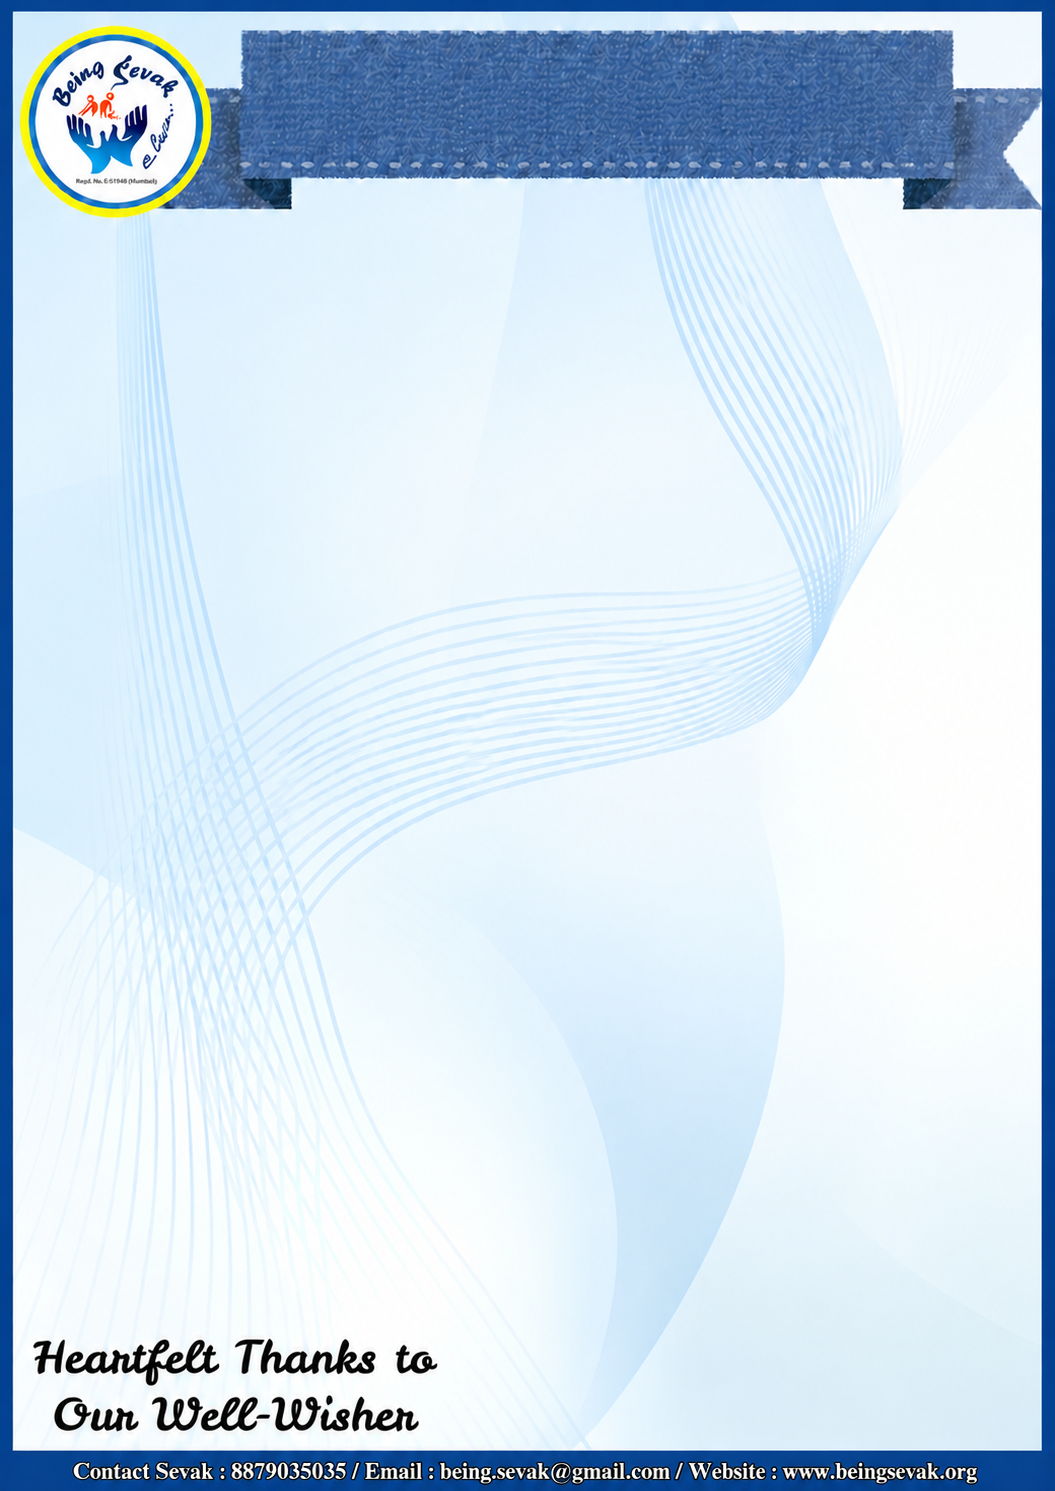
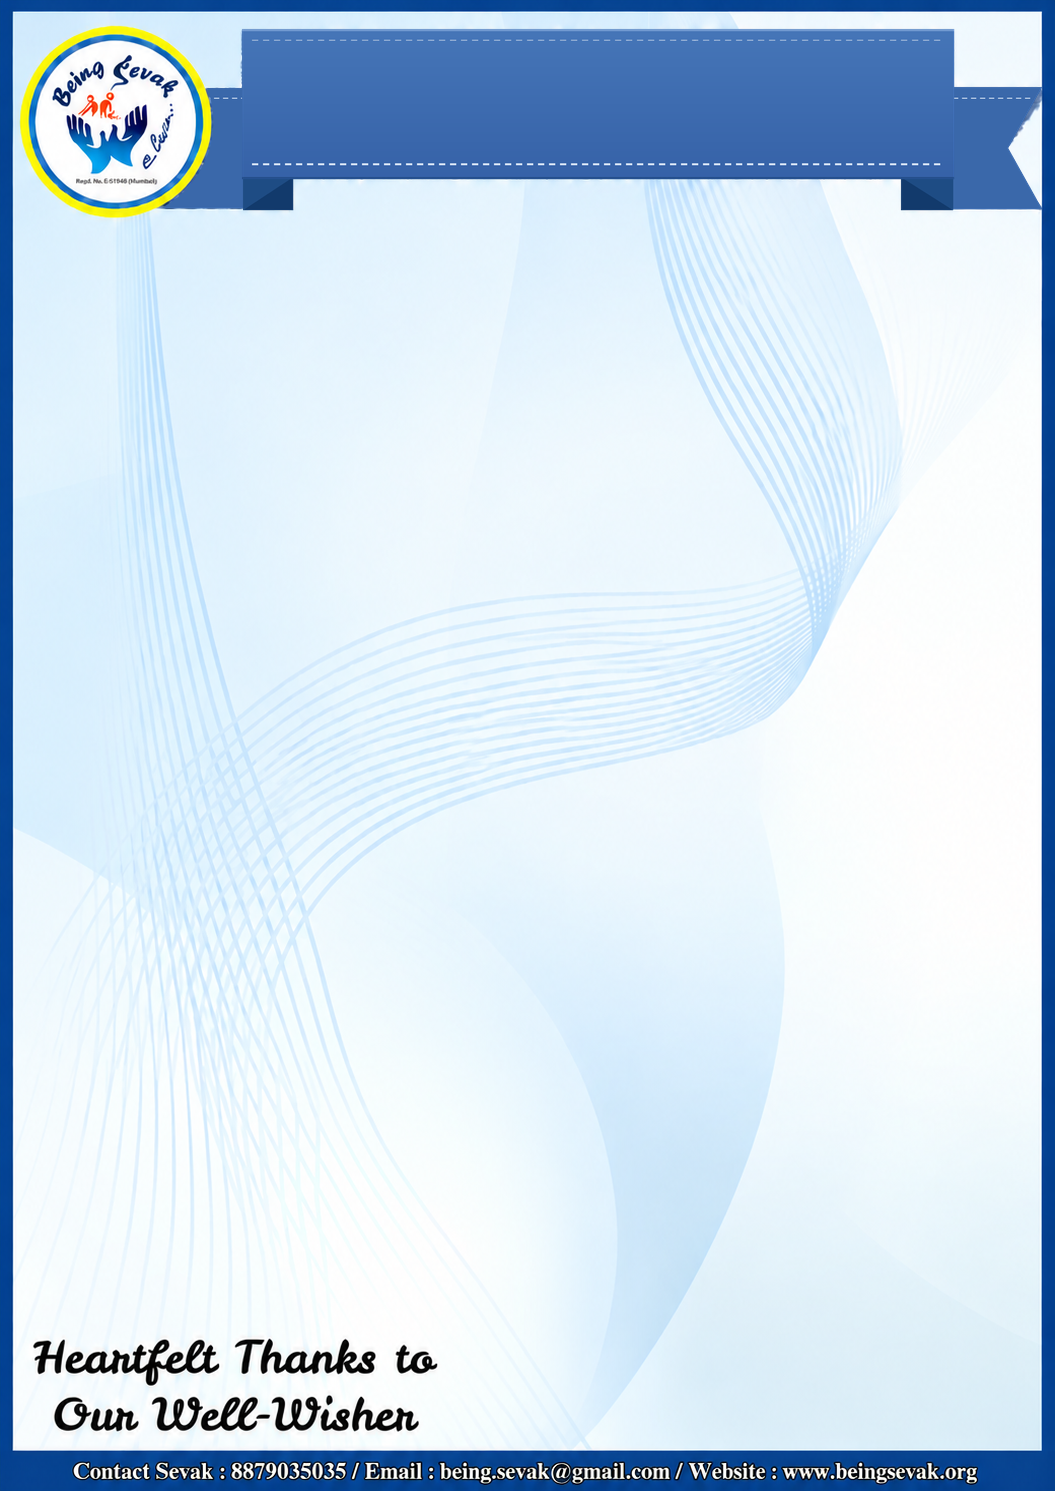
event not show error fix

Changed region(s): [[0.182, 0.0, 1.0, 0.1543]]

diff --git a/backend/src/controllers/eventHeadController.js b/backend/src/controllers/eventHeadController.js
@@ -1723,6 +1723,7 @@ export const generateNgoMonthlyReport = async (req, res) => {
       eventsByNgoDate.get(k).push(e);
     }
     const claimedEventIds = new Set();
+    const includedEventIds = new Set();
     const eventBannerMap = {};
     try {
       const bannerRows = await EventHead.getBannerMediaByEvents(events.map(e => e.id).filter(Boolean));
@@ -1834,10 +1835,22 @@ export const generateNgoMonthlyReport = async (req, res) => {
     // even while its event record is still a Draft waiting for the head's
     // approval — the work is what the report is about.
     const plannerCells = await loadPlannerDoneCells(month, year);
-    const plannerDoneCell = (date, festival) => {
-      const c = plannerCells.get(`${String(date || '').slice(0, 10)}::${String(festival || '').trim()}`);
-      return Boolean(c && c.allDone);
-    };
+     const normalizeName = (s) => String(s || '').trim().toLowerCase().replace(/[.\s]+$/g, '').replace(/\s+/g, ' ');
+     const plannerDoneCell = (date, festival) => {
+       const d = String(date || '').slice(0, 10);
+       const f = String(festival || '').trim();
+       const c = plannerCells.get(`${d}::${f}`);
+       if (c && c.allDone) return true;
+       // Tolerate trailing punctuation / whitespace differences between the
+       // event name and the planner task title.
+       for (const [k, v] of plannerCells) {
+         if (!v || !v.allDone) continue;
+         const [kd, kf] = k.split('::');
+         if (kd !== d) continue;
+         if (normalizeName(kf) === normalizeName(f)) return true;
+       }
+       return false;
+     };
 
     const byNgo = new Map();
     // Seed a card for every report NGO (BSCT / MANN / AFLF) up front, so an NGO
@@ -1929,11 +1942,12 @@ export const generateNgoMonthlyReport = async (req, res) => {
         image_event_id: img.event_id || null,
         image_kind: img.kind || null,
         image_index: img.index || 0,
-        banner: null,
-      });
-    }
+         banner: null,
+       });
+       if (linked?.id != null) includedEventIds.add(String(linked.id));
+     }
 
-    const ngos = [...byNgo.values()]
+     const ngos = [...byNgo.values()]
       .map(n => ({ ...n, budget: Math.round(n.budget) }))
       .sort((a, b) => a.ngo_name.localeCompare(b.ngo_name));
 
@@ -2016,8 +2030,8 @@ export const generateNgoMonthlyReport = async (req, res) => {
       const ngoKey = String(n.ngo_id ?? '');
       const extras = events
         .filter(e => String(e.ngo_id ?? '') === ngoKey
-           && !claimedEventIds.has(String(e.id))
-           && linkedEventIds.has(String(e.id))
+           && !includedEventIds.has(String(e.id))
+           && (linkedEventIds.has(String(e.id)) || isComplete(e) || plannerDoneCell(e.date, e.name))
            && !String(e.name || '').toLowerCase().includes('demo'))
         .filter(e => {
           const k = programmeKey(e);
@@ -2027,8 +2041,13 @@ export const generateNgoMonthlyReport = async (req, res) => {
           return true;
         })
         .sort((a, b) => String(a.date || '').localeCompare(String(b.date || '')));
-      if (!extras.length) continue;
-      const extraCards = extras.map(e => {
+       if (!extras.length) continue;
+       for (const e of extras) {
+         const id = e.ngo_id != null ? String(e.ngo_id) : 'unknown';
+         const code = ctx.ngoCodeMap ? (ctx.ngoCodeMap[e.ngo_id] || '') : '';
+         seedNgoCard(e.ngo_id, ctx.ngoMap[e.ngo_id], code);
+       }
+       const extraCards = extras.map(e => {
         const d = e.date ? String(e.date).slice(0, 10) : null;
         const img = imageForEvent(e);
         return {

diff --git a/client/src/panels/event-head/pages/ActivityPlanner.jsx b/client/src/panels/event-head/pages/ActivityPlanner.jsx
@@ -1271,6 +1271,10 @@ function CreateEventFromProgrammeModal({ entry, ngos, activities, onClose, onSav
           // The event is created either way; only the planner link is less precise.
         }
       }
+      // Hand the created event back to the planner immediately, so the row's
+      // "Download" button appears without waiting for the PDF to finish. The
+      // PDF is still built below and cached when it is ready.
+      onSaved({ key: entry?.key, event, pdf: null, ngoId, editing: isEdit })
       // The detail sheet is the download the head asked for. A PDF failure must
       // never lose the event that was already created. The same payload is handed
       // back to the planner so the row's "Download" button can re-issue it later.
@@ -1292,7 +1296,7 @@ function CreateEventFromProgrammeModal({ entry, ngos, activities, onClose, onSav
       } catch (pdfErr) {
         console.error('Event detail PDF failed', pdfErr)
       }
-      onSaved({ key: entry?.key, event, pdf: pdfArgs, ngoId, editing: isEdit })
+      // Event already handed back to the planner above; the PDF is cached on demand.
     } catch (e) {
       setError(e?.message || (isEdit ? 'Could not save the changes.' : 'Could not create the event.'))
     } finally {

diff --git a/client/src/panels/event-head/components/EventPosterReport.jsx b/client/src/panels/event-head/components/EventPosterReport.jsx
@@ -123,7 +123,7 @@ const EventPosterReport = forwardRef(function EventPosterReport({
             height: 48, background: 'linear-gradient(180deg, #3d9be0, #1b78c4)', display: 'flex',
             alignItems: 'center', justifyContent: 'center', padding: '0 12px', overflow: 'hidden',
           }}>
-           <div style={{ color: GOLD, fontWeight: 900, fontSize: bandText.length > 46 ? 21 : 25, letterSpacing: 0.4, whiteSpace: 'nowrap' }}>{bandText}</div>
+            <div style={{ color: '#fff', fontWeight: 900, fontSize: bandText.length > 46 ? 21 : 25, letterSpacing: 0.4, whiteSpace: 'nowrap' }}>{bandText}</div>
            </div>
          </div>
 
